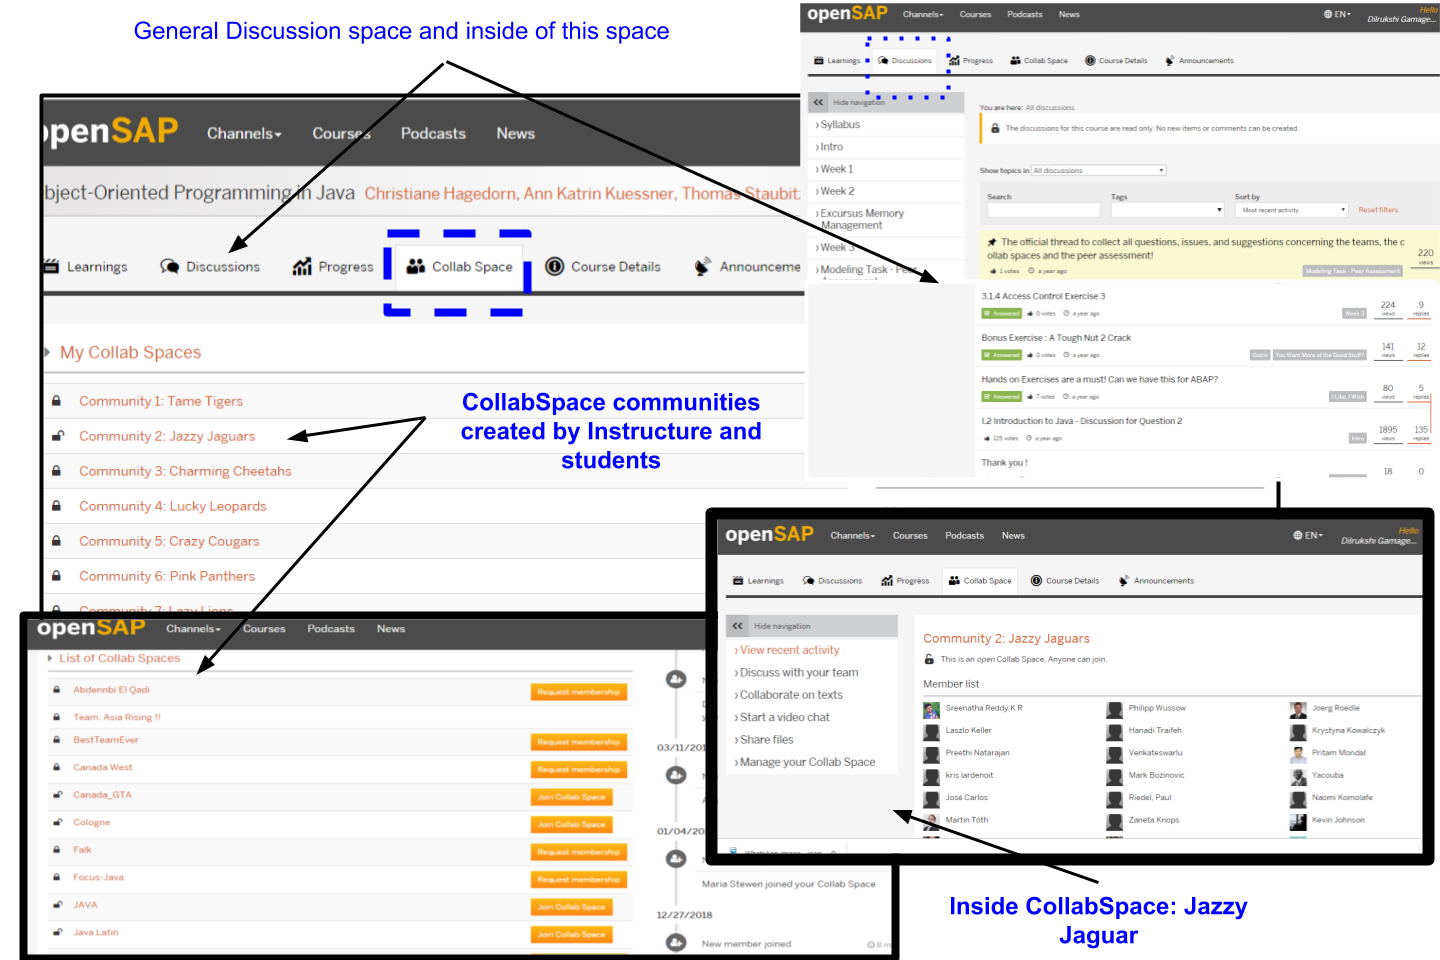
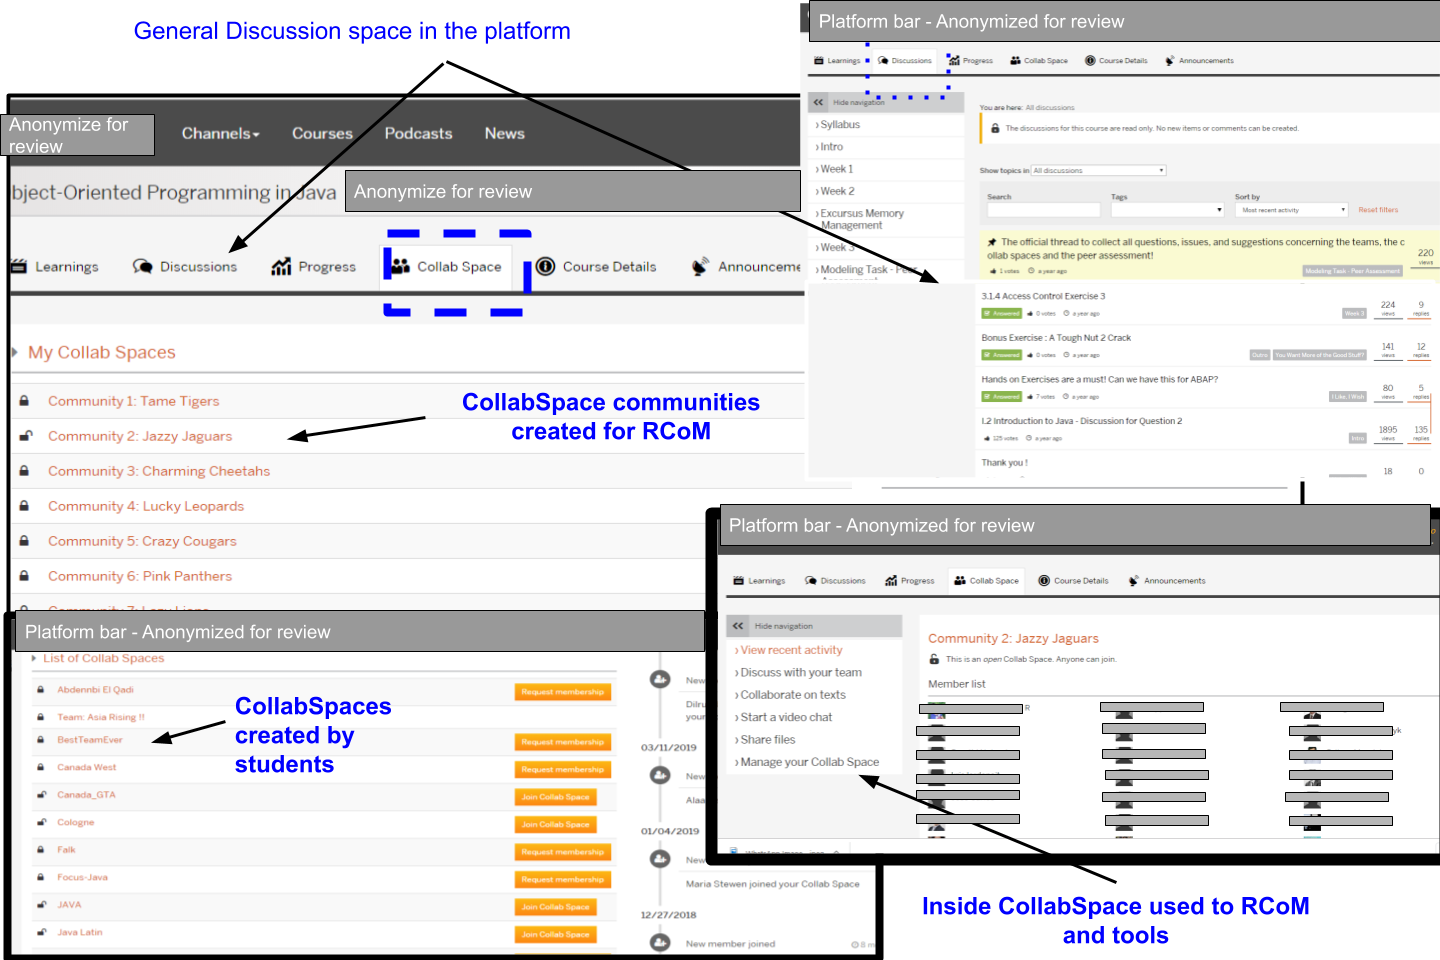
Updates from Overleaf

diff --git a/MainCSCW.tex b/MainCSCW.tex
@@ -87,7 +87,7 @@
 %%
 %% The "title" command has an optional parameter,
 %% allowing the author to define a "short title" to be used in page headers.
-\title{Rapid Communities: Scaffolding the Social Presence in Massive Open Online Courses}
+\title{Rapid Communities of MOOCs: Scaffolding the Social Presence in Massive Open Online Course by Communities of Practice }
 
 %%
 %% The "author" command and its associated commands are used to define
@@ -232,7 +232,7 @@ To overcome the challenges arise due to lack of social presence and to scaffold 
 
 \begin{figure}[h]
   \centering
-  \includegraphics[width=\linewidth]{images/Framework.png}
+  \includegraphics[width=0.7\textwidth]{images/Framework.png}
   \caption{The basic design of the Rapid MOOCs: A regular course with massive participants will be clustered to small communities and provide an orientation with a facilitator, and focus the conversation while networking with peers.}
   \Description{framework}
  \label{fig:framework}
@@ -513,8 +513,8 @@ Essentially, the generated model represents the associations and its strength of
 The model represent strong associations of the social presence constructs where the thick lines found highest strengths in association. The strengths of Interpersonal Communications-Cohesive Communication has the strongest association (3.45) in the model compared to Interpersonal Communications-Open Communication (1.80) and Cohesive Communication-Open Communication (2.10). This can be interpreted as the rapid communities much reflect the Interpersonal and Cohesive communication type conversations such as the conversations about life outside the classroom, emotional experiences, sarcasm, greetings, addressing with in a group mindset. Therefore, with the model fit data and strengths, we revealed social presence in the rapid community. 
 \begin{figure}[h]
   \centering
-  \includegraphics[width=\linewidth]{images/ENASocialP.png}
-  \caption{The ENA Model generated using 3 social predictors: Interpersonal, Cohesive and Open Communication. The highest  strengths was from the association of Interpersonal Communications-Cohesive Communication (3.45). Next were Cohesive Communication-Open Communication (2.10) and Interpersonal Communications-Open Communication (1.80).   }
+  \includegraphics[width=0.7\linewidth]{images/ENASocialP.png}
+  \caption{The ENA Model generated using 3 social predictors: Interpersonal, Cohesive and Open Communication. The highest  strengths was from the association of Interpersonal Communications-Cohesive Communication (3.45). Next were Cohesive Communication-Open Communication (2.10) and Interpersonal Communications-Open Communication (1.80). }
   \Description{framework}
  \label{fig:primary}
 \end{figure}
@@ -625,19 +625,23 @@ As Wenger et al describe in Applied value, knowledge capital may or may not be p
 Communities simply applying tools or practices may not drive changes and improve performance. It is important to identify what affects the performances in application of knowledge capital and social capital. Such success is explained in Realize value and rapid communities mostly realize the success of close knit group discussions were mostly depended on the interactions of the community leader. The culture of MOOCs has driven instructor orient learning and sometimes, community groups expect the community leader to act as the instructor than facilitator role. However, we realize our model of community manager need changes and could scale based on example of studies where MOOCs tenured members facilitate the discussions and help novice learners~\cite{nelimarkka2015alumni}.  
 
 \section{Discussion}
-\subsection{Key findings}
-%Technological transitions cannot come about without human agency, and the engagement of compatible social and organizational structures simple technological substitutions, but have to be accompanied by other changes such as infrastructure, user practices, regulations, technoscientific knowledge, etc. User practices can be viewed as routines or patterns of behaviour involving artefacts and skills, often embedded in organizations Many research explains that pedagogical changes impact more to online learning~\cite{law2019sociotechnical} yet, it is uncertain on sustainability and scalability~\cite{looi2015scaling}. 
 
-In this research we introduced an articulation of Communities of Practice (CoP) to MOOC by \textit{rapid communities}.  Through our exploratory case study of integrating rapid communities to a real MOOC, we learned how structured learning communities with scaffolding can bring desired social components to the MOOCs. Through our rapid communities, we discovered that creating designated spaces with a designated leader entail communities of practice enabling sustained process of social presence.  In this section, we generalize our findings by discussing design implications for future social computing systems and proposing a design space for  MOOCs by using rapid communities as a tool to impose long missing social leaning affordance by cultivating communities of practice. 
+Learning in a MOOC platform can not be considered as an automation of a technology. It needs human agency, engagement of compatible social and organizational structure. In MOOC platforms, user are often reflecting behaviourist, instructivist type of learning centered towards instructor and content. They embodied learning behaviour as a routine of watching a video, taking a quiz and in some occasions peer reviews. This instructivists pedagogy populated through out xMOOCs and researchers repeatedly enforce pedagogical changes in these platforms centered toward social aspects of learning. However, it is uncertain how such pedagogical changes can be embody to xMOOCs and maintain its sustainability and scalablity~\cite{law2019sociotechnical,looi2015scaling}. 
 
-\subsection{Implications of Rapid Communities to learning at scale}
+Inspired by how Wengers's communities of practice enforce social learning, build sense of belonging in communities and provide opportunities to sustain and scale, we began to oversee how can we bring CoP to MOOCs. Due to lack of such operationalize method, in this research we introduced an articulation of Communities of Practice (CoP) to MOOC by \textit{Rapid Communities of MOOCs (RCoM)}. Through our exploratory case study of integrating RCoM to a real MOOC, we learned how structured learning communities scaffolds desired social components to the MOOCs. At the same time it also helped us to understand behaviours of designated spaces with a designated leaders. The RCoM can be easily generalise to MOOC platforms with tweaks of integrating tools and infrastructure. We envision future social computing systems for learninging at scale incorporate RCoM as a tool to impose long missing social leaning affordance by cultivating communities of practice. 
+
+\subsection{Implications of Rapid Communities of MOOCs to learning at scale}
+
+\subsubsection{Scaling interactions social presence} 
+MOOC platforms were designed to scale, where massive number of participants can register any course and learn. However, platform affordance to scale the meaningful peer interactions, social learning is very limited. RCoM are designed to scale its social presence over clustered groups. In typical MOOC platform structure, instructors and  teaching assistants are burned out on the amount of demanded interactions~\cite{zheng2016ask} and RCoP type community designs could easily imply to lessen the burden of instructor interactions and increase the cognitive and social interactions. 
+
+\subsubsection{Content driven to value driven communities in MOOCs} 
+MOOCs are repeatedly accused for changing a learning culture to content driven motivation~\cite{wang2015content}. Occasional pedagogical changes in some MOOCs use sub communities to scaffold knowledge creation and peer support~\cite{sharif2015discussion}.Not just the knowledge, the RCoM creates an environment where communities are driven by the values it creates. They come together for the purpose of learning together, driven by a set of community values where members feel social interaction and consist of shared goals and a sense of belonging. 
+
+\subsubsection {Distributed learners to connected learners} 
+Learners in MOOCs are distributed around the world, the platforms design is focusing on instructivist theories where the learning culture is central to "Content" by the instructor~\cite{crosslin2016instructivism}. Social learning theories been endorsed, extensive amount of research emphasize the value of social learning but it is rarely the platforms have accommodated by its design other than the forum usage between peers in its design. However, learning in a platform such as MOOCs can bring such diverse social learning interactions leading to small word of learners~\cite{watts1999networks}. Small worlds have been found to organize a remarkable diversity of systems including friendships, scientific collaborations, corporate alliances and social systems of learning at scale are no difference to be equally benefiting to improve its creativity and performance. Members with identity in clusters bring limitless opportunities beyond the interactions in MOOCs.  
 
 
-\textit{Impose social presence at scale} 
-
-\textit{Articulating community values in MOOCs} 
-
-\textit{Distributed learners to connected learners} 
 
 %The involvement of a facilitator is a major component in the scaffolding process and perhaps one of the most frequently observed features in the subsequent studies of CoPs, some of which link the success or failure of the group to this role.  However, the ctual responsibilities and the organizational support provided for this role vary across studies. For example, some facilitators play a distinct role from that of the leader and conduct their activities under the direction of the group and/or the leader, while other groups merge the role of the leader and facilitator[47, 48]. The choice of management structure appears to depend on the size of the group and the availability of human resources. Which model best suits which type of organisation is unclear, but facilitator fatigue has been mentioned as something that can lead to the breakdown of CoP group..
 
